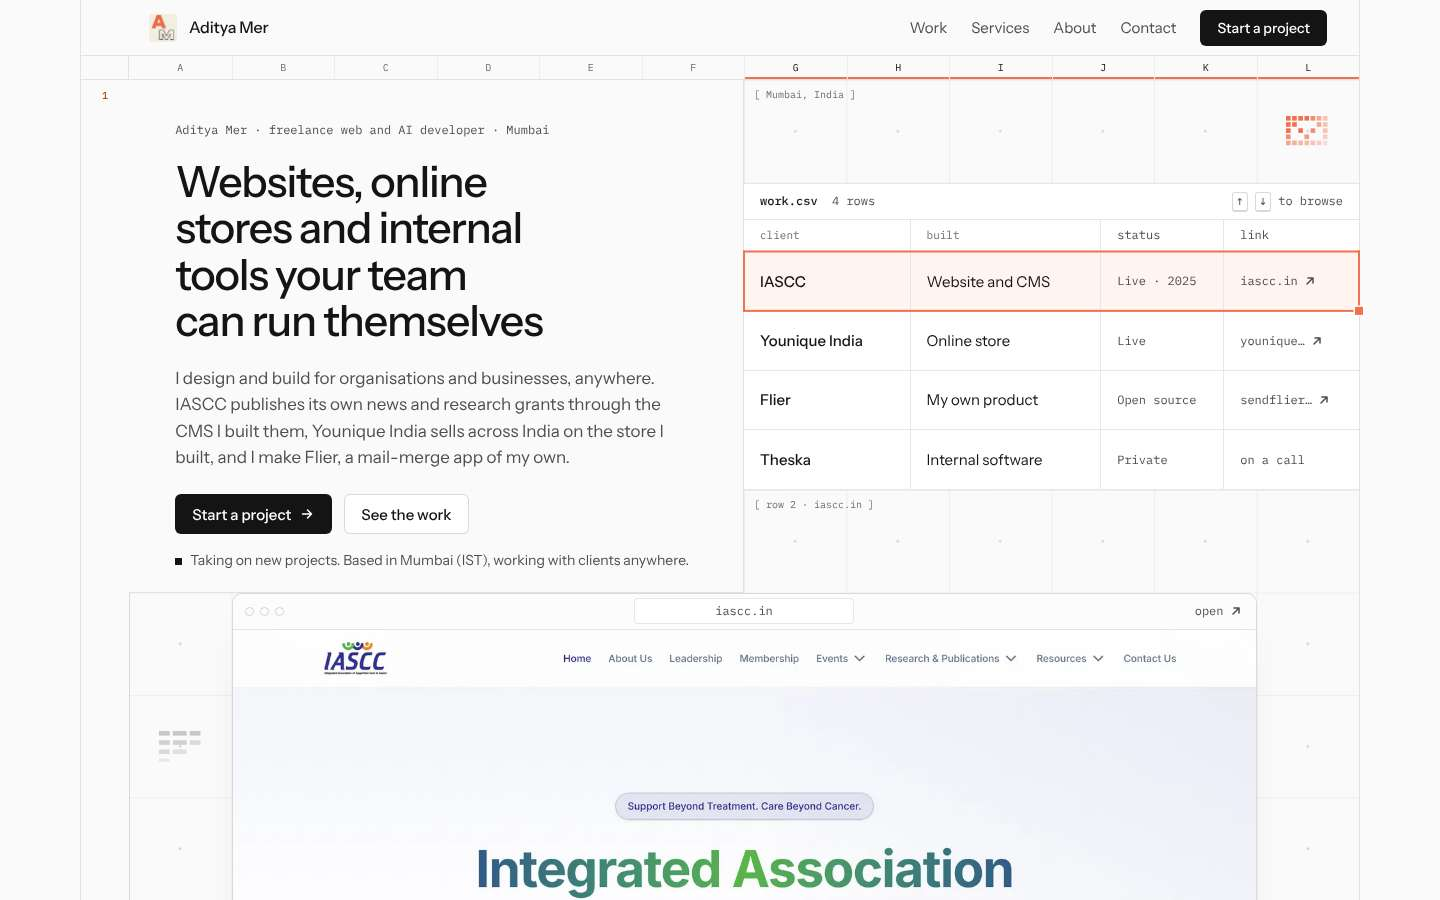
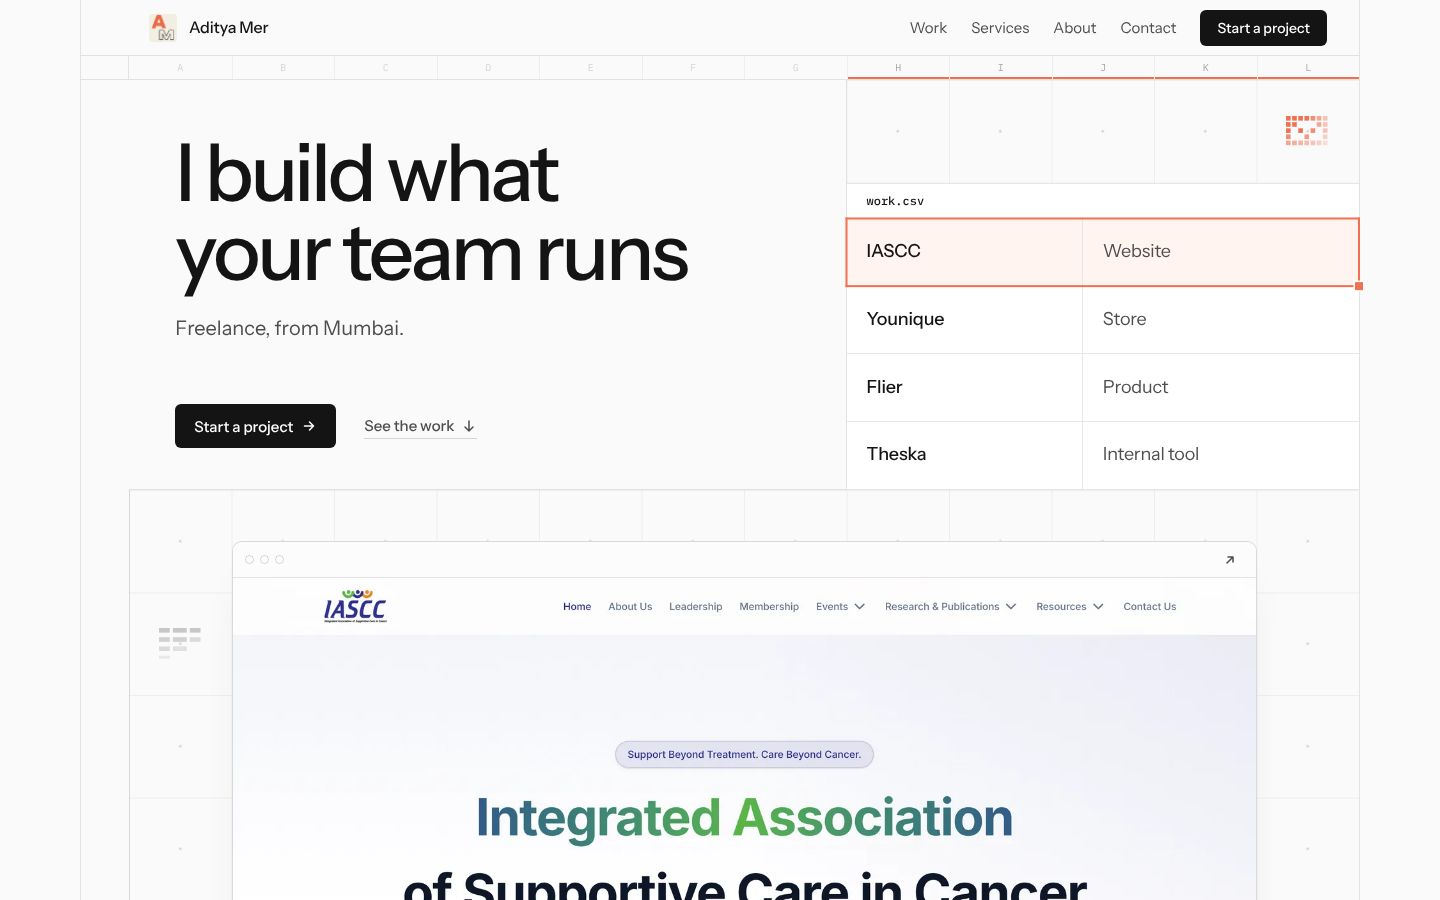
Mock D: hero v2 (25 words, screenshot-led)
Claude-Session: https://claude.ai/code/session_01WUuDZFGfVJ36FVGzzxM2e9

diff --git a/mocks/d-ledger/index.html b/mocks/d-ledger/index.html
@@ -96,22 +96,25 @@ svg.i{width:16px;height:16px;flex:none;fill:none;stroke:currentColor;stroke-widt
 .hgrid{position:relative;display:grid;grid-template-columns:repeat(12,minmax(0,1fr));grid-template-rows:repeat(9,calc(100cqw / 12));height:calc(100cqw / 12 * 9);overflow:hidden;
   background-image:radial-gradient(circle,rgba(20,20,20,.16) 0 1px,transparent 1.5px),linear-gradient(to bottom,var(--grid) 1px,transparent 1px);
   background-size:calc(100cqw / 12) calc(100cqw / 12);}
-.htext{grid-column:1/span 6;grid-row:1/span 5;background:var(--bg);border-right:1px solid var(--line);border-bottom:1px solid var(--line);padding:calc(100cqw / 12 * .4) calc(100cqw / 12 * .45) calc(100cqw / 12 * .36);display:flex;flex-direction:column;z-index:2}
-.htext .kick{color:var(--ink2)}
-.htext h1{font:500 calc(100cqw / 12 * .42)/1.08 var(--sans);letter-spacing:-.028em;margin-top:20px;max-width:15ch;text-wrap:balance}
-.htext .lede{font-size:17px;line-height:1.55;color:var(--ink2);margin-top:20px;max-width:50ch}
-.htext .acts{display:flex;gap:12px;margin-top:auto;padding-top:24px;flex-wrap:wrap}
-.htext .avail{margin-top:16px;display:flex;align-items:center;gap:8px;color:var(--ink2);font-size:14px}
+.htext{grid-column:1/span 7;grid-row:1/span 4;background:var(--bg);border-right:1px solid var(--line);border-bottom:1px solid var(--line);padding:calc(100cqw / 12 * .52) calc(100cqw / 12 * .45) calc(100cqw / 12 * .4);display:flex;flex-direction:column;z-index:2}
+.htext h1{font:500 calc(100cqw / 12 * .78)/.98 var(--sans);letter-spacing:-.04em;max-width:11ch;text-wrap:balance}
+.htext .lede{font-size:20px;line-height:1.4;color:var(--ink2);margin-top:24px}
+.htext .acts{display:flex;align-items:center;gap:28px;margin-top:auto;padding-top:24px;flex-wrap:wrap}
+.htext .acts .btn{height:44px;padding:0 18px}
+.lnk{display:inline-flex;align-items:center;gap:6px;font:500 15px/1 var(--sans);text-decoration:none;color:var(--ink2);border-bottom:1px solid var(--line2);padding:4px 0}
+.lnk:hover{color:var(--ink);border-color:var(--ink)}
 .sq{width:7px;height:7px;background:var(--ink);flex:none}
+/* the hero row number and the column letters go quiet while the hero is in view */
+.hero::before{visibility:hidden}
+html.at-hero .letters span{color:rgba(20,20,20,.16)}
+html.at-hero .letters span.on{color:rgba(20,20,20,.38)}
 
-.tpanel{grid-column:7/span 6;grid-row:2/span 3;background:var(--surface);border-top:1px solid var(--line);border-bottom:1px solid var(--line);z-index:2;display:flex;flex-direction:column}
-.tcap{display:flex;align-items:center;justify-content:space-between;height:36px;padding:0 16px;border-bottom:1px solid var(--line);color:var(--ink2)}
+.tpanel{grid-column:8/span 5;grid-row:2/span 3;background:var(--surface);border-top:1px solid var(--line);border-bottom:1px solid var(--line);z-index:2;display:flex;flex-direction:column}
+.tcap{display:flex;align-items:center;height:36px;padding:0 20px;border-bottom:1px solid var(--line);color:var(--ink2)}
 .tcap b{font-weight:500;color:var(--ink)}
-kbd{font:500 10px/1 var(--mono);border:1px solid var(--line2);border-bottom-width:2px;border-radius:3px;padding:2px 4px;color:var(--ink2);background:var(--surface)}
 table.wt{width:100%;border-collapse:collapse;table-layout:fixed}
-.wt th{font:400 11px/1 var(--mono);text-align:left;color:var(--ink3);height:32px;padding:0 16px;border-bottom:1px solid var(--line)}
-.wt th + th,.wt td + td{border-left:1px solid var(--line)}
-.wt td{height:calc((100cqw / 12 * 3 - 70px) / 4);padding:0 16px;border-bottom:1px solid var(--line);font-size:15px;white-space:nowrap;overflow:hidden;text-overflow:ellipsis}
+.wt td + td{border-left:1px solid var(--line)}
+.wt td{height:calc((100cqw / 12 * 3 - 37px) / 4);padding:0 20px;border-bottom:1px solid var(--line);font-size:18px;letter-spacing:-.01em;white-space:nowrap;overflow:hidden;text-overflow:ellipsis}
 .wt tr:last-child td{border-bottom:0}
 .wt tbody tr{cursor:pointer;transition:background-color .2s}
 .wt tbody tr:hover{background:#F6F6F5}
@@ -119,24 +122,22 @@ table.wt{width:100%;border-collapse:collapse;table-layout:fixed}
 .wt tbody tr:focus{outline:none}
 .wt tbody tr:focus-visible td:first-child{box-shadow:inset 2px 0 0 var(--ink)}
 .wt .cl{font-weight:500}
-.wt .st,.wt .ln{font:400 12px/1 var(--mono);color:var(--ink2)}
-.wt .ln a{text-decoration:none;display:inline-flex;align-items:center;gap:4px}
-.wt .ln a:hover{color:var(--ink);text-decoration:underline}
-.wt col.c1{width:27%}.wt col.c2{width:31%}.wt col.c3{width:20%}.wt col.c4{width:22%}
+.wt td:last-child{color:var(--ink2)}
+.wt col.c1{width:46%}
 
-.win{grid-column:2/span 10;grid-row:6/span 7;align-self:start;z-index:3;background:var(--surface);border:1px solid var(--line2);border-radius:10px 10px 0 0;overflow:hidden;box-shadow:0 1px 0 rgba(20,20,20,.03),0 24px 48px -24px rgba(20,20,20,.12)}
-.wbar{display:grid;grid-template-columns:1fr auto 1fr;align-items:center;height:36px;padding:0 12px;border-bottom:1px solid var(--line);background:#FCFCFC}
+.win{grid-column:2/span 10;grid-row:5/span 8;align-self:start;margin-top:calc(100cqw / 12 * .5);z-index:3;background:var(--surface);border:1px solid var(--line2);border-radius:10px 10px 0 0;overflow:hidden;box-shadow:0 1px 0 rgba(20,20,20,.03),0 24px 48px -24px rgba(20,20,20,.12)}
+.wbar{display:flex;align-items:center;justify-content:space-between;height:36px;padding:0 12px;border-bottom:1px solid var(--line);background:#FCFCFC}
 .wbar .dots{display:flex;gap:6px}
 .wbar .dots i{width:9px;height:9px;border-radius:50%;border:1px solid var(--line2)}
-.wbar .url{font:400 12px/1 var(--mono);color:var(--ink2);padding:6px 12px;border:1px solid var(--line);border-radius:4px;background:var(--surface);min-width:220px;text-align:center}
-.wbar .open{justify-self:end;font:400 12px/1 var(--mono);color:var(--ink2);text-decoration:none;display:inline-flex;gap:4px;align-items:center}
-.wbar .open:hover{color:var(--ink)}
+.wbar .open{display:grid;place-items:center;width:28px;height:28px;border-radius:4px;color:var(--ink2)}
+.wbar .open:hover{color:var(--ink);background:var(--bg)}
 .panes{position:relative;aspect-ratio:16/10;background:var(--surface)}
 .pane{position:absolute;inset:0;opacity:0;transform:translateY(16px);transition:opacity .35s var(--ease),transform .5s var(--ease);visibility:hidden}
 .pane.on{opacity:1;transform:none;visibility:visible}
 .pane img{width:100%;height:100%;object-fit:cover;object-position:top}
 .priv{display:grid;place-items:center;height:100%;background:
   linear-gradient(to right,var(--grid) 1px,transparent 1px),linear-gradient(to bottom,var(--grid) 1px,transparent 1px),#FCFCFC;background-size:12.5% 40px,12.5% 40px}
+.win .priv{align-content:start;padding-top:9%}
 .priv-in{width:min(560px,86%);background:var(--surface);border:1px solid var(--line2);border-radius:6px}
 .priv-row{display:grid;grid-template-columns:1.2fr 2fr 1fr;border-bottom:1px solid var(--line);height:40px;align-items:center}
 .priv-row:last-child{border-bottom:0}
@@ -144,32 +145,26 @@ table.wt{width:100%;border-collapse:collapse;table-layout:fixed}
 .priv-row span + span{border-left:1px solid var(--line)}
 .priv-row i{display:block;height:8px;border-radius:2px;background:rgba(20,20,20,.09);width:100%}
 .priv-head{display:flex;align-items:center;gap:8px;padding:12px 14px;border-bottom:1px solid var(--line);font-size:14px;color:var(--ink2)}
-.lab{font:400 10px/1 var(--mono);color:var(--ink3);padding:10px;white-space:nowrap;z-index:1}
 .px{display:grid;place-items:center;z-index:1}
 .px svg{width:42%;height:auto}
 
 @media (max-width:1099px){
   .hgrid{display:flex;flex-direction:column;gap:calc(100cqw / var(--cols) * .5);height:auto;overflow:visible;padding:0 0 calc(100cqw / var(--cols) * .5);background-size:calc(100cqw / var(--cols)) calc(100cqw / var(--cols))}
-  .hgrid>.lab,.hgrid>.px{display:none}
+  .hgrid>.px{display:none}
   .htext{border-right:0;padding:40px var(--pad) 32px}
-  .htext h1{font-size:clamp(34px,7.4cqw,52px);max-width:18ch}
-  .htext .lede{font-size:16px}
+  .htext h1{font-size:clamp(40px,9.6cqw,64px)}
+  .htext .lede{font-size:17px;margin-top:16px}
+  .htext .acts{margin-top:0;padding-top:28px}
   .tpanel{margin:0 var(--pad);border:1px solid var(--line)}
-  .wt td{height:48px}
+  .wt td{height:52px}
   .win{margin:0 var(--pad);border-radius:8px;align-self:stretch}
 }
 @media (max-width:639px){
-  .htext{padding:32px var(--pad) 28px}
-  .htext .acts .btn{flex:1;justify-content:center}
+  .htext{padding:28px var(--pad) 28px}
+  .htext .acts{gap:20px}
   .tpanel,.win{margin:0 12px}
-  .wt th,.wt td{padding:0 10px}
-  .wt td{font-size:14px}
-  .wt col.c1{width:38%}.wt col.c2{width:62%}.wt col.c3,.wt col.c4{width:0}
-  .wt .st,.wt .ln,.wt th.st,.wt th.ln{display:none}
-  .wbar{grid-template-columns:auto 1fr;gap:12px}
-  .wbar .url{min-width:0;text-align:left;overflow:hidden;text-overflow:ellipsis;white-space:nowrap}
-  .wbar .open{display:none}
-  .tcap .hint{display:none}
+  .wt td{padding:0 14px;font-size:16px;height:46px}
+  .tcap{padding:0 14px}
 }
 
 /* hero window rises out of the hero ledge as you scroll (scroll-driven, transform only) */
@@ -392,38 +387,32 @@ form.fm{display:grid;grid-template-columns:1fr 1fr}
   <section class="r hero" data-scope="hero" aria-labelledby="h1">
     <div class="hgrid">
       <div class="htext">
-        <p class="kick mono">Aditya Mer · freelance web and AI developer · Mumbai</p>
-        <h1 id="h1">Websites, online stores and internal tools your team can run themselves</h1>
-        <p class="lede">I design and build for organisations and businesses, anywhere. IASCC publishes its own news and research grants through the CMS I built them, Younique India sells across India on the store I built, and I make Flier, a mail-merge app of my own.</p>
+        <h1 id="h1">I build what your team runs</h1>
+        <p class="lede">Freelance, from Mumbai.</p>
         <div class="acts">
           <a class="btn btn-p" href="#contact">Start a project <svg class="i" viewBox="0 0 16 16"><path d="M3.5 8h9M8.5 4l4 4-4 4"/></svg></a>
-          <a class="btn btn-s" href="#work">See the work</a>
+          <a class="lnk" href="#work">See the work <svg class="i" viewBox="0 0 16 16"><path d="M8 3v10M4 9l4 4 4-4"/></svg></a>
         </div>
-        <p class="avail"><span class="sq" aria-hidden="true"></span>Taking on new projects. Based in Mumbai (IST), working with clients anywhere.</p>
       </div>
 
       <div class="tpanel">
-        <div class="tcap mono"><span><b>work.csv</b> &nbsp;4 rows</span><span class="hint"><kbd>↑</kbd> <kbd>↓</kbd> to browse</span></div>
-        <table class="wt" id="wt" role="grid" aria-label="work.csv, projects I have shipped. Use the arrow keys to preview each one." aria-describedby="wlive">
-          <colgroup><col class="c1"><col class="c2"><col class="c3"><col class="c4"></colgroup>
-          <thead><tr><th scope="col">client</th><th scope="col">built</th><th scope="col" class="st">status</th><th scope="col" class="ln">link</th></tr></thead>
+        <div class="tcap mono"><b>work.csv</b></div>
+        <table class="wt" id="wt" role="grid" aria-label="work.csv: client and what I built. Use the arrow keys to preview each project." aria-describedby="wlive">
+          <colgroup><col class="c1"><col></colgroup>
           <tbody>
-            <tr tabindex="0" aria-selected="true" data-url="iascc.in" data-href="https://iascc.in"><td class="cl">IASCC</td><td>Website and CMS</td><td class="st">Live · 2025</td><td class="ln"><a href="https://iascc.in" tabindex="-1" target="_blank" rel="noopener">iascc.in <svg class="i" viewBox="0 0 16 16"><path d="M5 11 11 5M6 5h5v5"/></svg></a></td></tr>
-            <tr tabindex="-1" aria-selected="false" data-url="youniqueindia.co.in" data-href="https://www.youniqueindia.co.in"><td class="cl">Younique India</td><td>Online store</td><td class="st">Live</td><td class="ln"><a href="https://www.youniqueindia.co.in" tabindex="-1" target="_blank" rel="noopener">younique… <svg class="i" viewBox="0 0 16 16"><path d="M5 11 11 5M6 5h5v5"/></svg></a></td></tr>
-            <tr tabindex="-1" aria-selected="false" data-url="sendflier.tech" data-href="https://sendflier.tech"><td class="cl">Flier</td><td>My own product</td><td class="st">Open source</td><td class="ln"><a href="https://sendflier.tech" tabindex="-1" target="_blank" rel="noopener">sendflier… <svg class="i" viewBox="0 0 16 16"><path d="M5 11 11 5M6 5h5v5"/></svg></a></td></tr>
-            <tr tabindex="-1" aria-selected="false" data-url="theska · private" data-href=""><td class="cl">Theska</td><td>Internal software</td><td class="st">Private</td><td class="ln">on a call</td></tr>
+            <tr tabindex="0" aria-selected="true" data-url="iascc.in" data-href="https://iascc.in"><td class="cl">IASCC</td><td>Website</td></tr>
+            <tr tabindex="-1" aria-selected="false" data-url="youniqueindia.co.in" data-href="https://www.youniqueindia.co.in"><td class="cl" title="Younique India">Younique</td><td>Store</td></tr>
+            <tr tabindex="-1" aria-selected="false" data-url="sendflier.tech" data-href="https://sendflier.tech"><td class="cl">Flier</td><td>Product</td></tr>
+            <tr tabindex="-1" aria-selected="false" data-url="theska · private" data-href=""><td class="cl">Theska</td><td>Internal tool</td></tr>
           </tbody>
         </table>
       </div>
 
-      <span class="lab" style="grid-column:7/span 3;grid-row:1">[ Mumbai, India ]</span>
-      <span class="lab" id="rowlab" style="grid-column:7/span 4;grid-row:5" aria-hidden="true">[ row 2 · iascc.in ]</span>
-      <span class="lab" style="grid-column:12;grid-row:9;align-self:end">[ UTC+5:30 ]</span>
       <span class="px" style="grid-column:12;grid-row:1" aria-hidden="true"><svg viewBox="0 0 28 20"><g fill="#F07050"><rect x="0" y="0" width="3" height="3"/><rect x="4" y="0" width="3" height="3"/><rect x="8" y="0" width="3" height="3"/><rect x="12" y="0" width="3" height="3"/><rect x="16" y="0" width="3" height="3" opacity=".8"/><rect x="20" y="0" width="3" height="3" opacity=".6"/><rect x="24" y="0" width="3" height="3" opacity=".4"/><rect x="0" y="4" width="3" height="3"/><rect x="4" y="4" width="3" height="3"/><rect x="20" y="4" width="3" height="3" opacity=".6"/><rect x="24" y="4" width="3" height="3" opacity=".4"/><rect x="0" y="8" width="3" height="3"/><rect x="8" y="8" width="3" height="3"/><rect x="16" y="8" width="3" height="3" opacity=".8"/><rect x="24" y="8" width="3" height="3" opacity=".4"/><rect x="0" y="12" width="3" height="3" opacity=".8"/><rect x="12" y="12" width="3" height="3" opacity=".7"/><rect x="24" y="12" width="3" height="3" opacity=".3"/><rect x="0" y="16" width="3" height="3" opacity=".6"/><rect x="4" y="16" width="3" height="3" opacity=".55"/><rect x="8" y="16" width="3" height="3" opacity=".5"/><rect x="12" y="16" width="3" height="3" opacity=".45"/><rect x="16" y="16" width="3" height="3" opacity=".4"/><rect x="20" y="16" width="3" height="3" opacity=".3"/><rect x="24" y="16" width="3" height="3" opacity=".2"/></g></svg></span>
-      <span class="px" style="grid-column:1;grid-row:7" aria-hidden="true"><svg viewBox="0 0 28 20"><g fill="#141414" opacity=".22"><rect x="0" y="0" width="7" height="3"/><rect x="9" y="0" width="9" height="3"/><rect x="20" y="0" width="7" height="3"/><rect x="0" y="6" width="7" height="3" opacity=".8"/><rect x="9" y="6" width="9" height="3" opacity=".8"/><rect x="20" y="6" width="7" height="3" opacity=".6"/><rect x="0" y="12" width="7" height="3" opacity=".6"/><rect x="9" y="12" width="9" height="3" opacity=".5"/><rect x="0" y="18" width="7" height="2" opacity=".35"/></g></svg></span>
+      <span class="px" style="grid-column:1;grid-row:6" aria-hidden="true"><svg viewBox="0 0 28 20"><g fill="#141414" opacity=".22"><rect x="0" y="0" width="7" height="3"/><rect x="9" y="0" width="9" height="3"/><rect x="20" y="0" width="7" height="3"/><rect x="0" y="6" width="7" height="3" opacity=".8"/><rect x="9" y="6" width="9" height="3" opacity=".8"/><rect x="20" y="6" width="7" height="3" opacity=".6"/><rect x="0" y="12" width="7" height="3" opacity=".6"/><rect x="9" y="12" width="9" height="3" opacity=".5"/><rect x="0" y="18" width="7" height="2" opacity=".35"/></g></svg></span>
 
       <figure class="win" aria-label="Preview of the selected project">
-        <div class="wbar"><span class="dots" aria-hidden="true"><i></i><i></i><i></i></span><span class="url" id="wurl">iascc.in</span><a class="open" id="wopen" href="https://iascc.in" target="_blank" rel="noopener">open <svg class="i" viewBox="0 0 16 16"><path d="M5 11 11 5M6 5h5v5"/></svg></a></div>
+        <div class="wbar"><span class="dots" aria-hidden="true"><i></i><i></i><i></i></span><a class="open" id="wopen" href="https://iascc.in" target="_blank" rel="noopener" aria-label="Open iascc.in"><svg class="i" viewBox="0 0 16 16"><path d="M5 11 11 5M6 5h5v5"/></svg></a></div>
         <div class="panes">
           <div class="pane on"><img src="../assets/iascc.webp" width="1600" height="1000" alt="IASCC home page: Integrated Association of Supportive Care in Cancer"></div>
           <div class="pane"><img src="../assets/younique.webp" width="1600" height="1000" alt="Younique India online store home page" loading="lazy"></div>
@@ -445,7 +434,7 @@ form.fm{display:grid;grid-template-columns:1fr 1fr}
 
   <!-- work -->
   <section id="work" aria-labelledby="work-h">
-    <div class="r sh fill"><div class="c t"><h2 id="work-h"><span class="dot">.</span>work</h2></div><div class="c d"><p>Three client projects and one product of my own. The screenshots are the live sites.</p></div></div>
+    <div class="r sh fill"><div class="c t"><h2 id="work-h"><span class="dot">.</span>work</h2></div><div class="c d"><p>Websites, online stores and internal tools: three client projects and Flier, a product of my own. The screenshots are the live sites.</p></div></div>
 
     <article class="r case fill" data-scope>
       <div class="c img"><a class="shot" href="https://iascc.in" target="_blank" rel="noopener" aria-label="Visit iascc.in"><img src="../assets/iascc.webp" width="1600" height="1000" alt="IASCC website home page" loading="lazy"></a></div>
@@ -641,7 +630,7 @@ form.fm{display:grid;grid-template-columns:1fr 1fr}
         <h2 id="ct-h" style="margin-top:16px">Let's work together</h2>
         <p>Tell me what you need and who it's for. I reply with a few questions, then we set up a short call. No cost and no obligation.</p>
         <div class="mailcell" data-sel><a href="mailto:adityamer.work@gmail.com">adityamer.work@gmail.com</a><button class="copy" type="button" id="copy" data-v="adityamer.work@gmail.com"><svg class="i" viewBox="0 0 16 16"><rect x="5.5" y="5.5" width="8" height="8" rx="1"/><path d="M10.5 5.5v-2a1 1 0 0 0-1-1h-6a1 1 0 0 0-1 1v6a1 1 0 0 0 1 1h2"/></svg><span>Copy</span></button></div>
-        <p class="avail"><span class="sq" aria-hidden="true"></span>Taking on new projects · Mumbai, India · clients anywhere</p>
+        <p class="avail"><span class="sq" aria-hidden="true"></span>Taking on new projects · Mumbai, India (UTC+5:30) · clients anywhere</p>
         <p class="sr" id="copied" aria-live="polite"></p>
         <div class="else"><a href="https://github.com/aditya190803" target="_blank" rel="noopener">GitHub ↗</a><a href="https://www.linkedin.com/in/adityamer/" target="_blank" rel="noopener">LinkedIn ↗</a><a href="/Aditya_Mer_Resume.pdf">Résumé (PDF)</a></div>
       </div>
@@ -697,8 +686,7 @@ form.fm{display:grid;grid-template-columns:1fr 1fr}
 
   /* ---- hero work.csv rows ---- */
   var wt=d.getElementById('wt'), rows=[].slice.call(wt.tBodies[0].rows);
-  var panes=d.querySelectorAll('.pane'), wurl=d.getElementById('wurl'), wopen=d.getElementById('wopen');
-  var rowlab=d.getElementById('rowlab'), wlive=d.getElementById('wlive');
+  var panes=d.querySelectorAll('.pane'), wopen=d.getElementById('wopen'), wlive=d.getElementById('wlive');
   var names=['IASCC','Younique India','Flier','Theska'];
   function pick(list, i, focus){
     list.forEach(function(r,j){ r.setAttribute('aria-selected', j===i); r.tabIndex = j===i ? 0 : -1; });
@@ -708,9 +696,7 @@ form.fm{display:grid;grid-template-columns:1fr 1fr}
     pick(rows, i, focus);
     for(var j=0;j<panes.length;j++) panes[j].classList.toggle('on', j===i);
     var r=rows[i];
-    wurl.textContent=r.dataset.url;
-    if(r.dataset.href){ wopen.href=r.dataset.href; wopen.style.visibility=''; } else wopen.style.visibility='hidden';
-    rowlab.textContent='[ row '+(i+2)+' · '+r.dataset.url+' ]';
+    if(r.dataset.href){ wopen.href=r.dataset.href; wopen.setAttribute('aria-label','Open '+r.dataset.url); wopen.style.visibility=''; } else wopen.style.visibility='hidden';
     wlive.textContent='Showing '+names[i]+(r.dataset.href?', '+r.dataset.url:', private project');
     if(curScope && curScope.dataset.scope==='hero') place(r);
   }
@@ -728,6 +714,7 @@ form.fm{display:grid;grid-template-columns:1fr 1fr}
       });
     });
   }
+  if(matchMedia('(hover: hover) and (pointer: fine)').matches) rows.forEach(function(r,i){ r.addEventListener('mouseenter', function(){ if(r.getAttribute('aria-selected')!=='true') selectWork(i, false); }); });
   grid(rows, selectWork, function(i){ var h=rows[i].dataset.href; if(h) window.open(h,'_blank','noopener'); else location.hash='#contact'; });
 
   /* ---- Flier merge demo ---- */
@@ -742,7 +729,7 @@ form.fm{display:grid;grid-template-columns:1fr 1fr}
 
   /* ---- the outline follows whichever scope crosses the reading line ---- */
   var scopes=d.querySelectorAll('[data-scope]');
-  function setScope(s, snap){ curScope=s; place(targetOf(s), snap); }
+  function setScope(s, snap){ curScope=s; d.documentElement.classList.toggle('at-hero', s.dataset.scope==='hero'); place(targetOf(s), snap); }
   if('IntersectionObserver' in window){
     var io=new IntersectionObserver(function(es){
       es.forEach(function(e){ if(e.isIntersecting && e.target!==curScope) setScope(e.target); });

diff --git a/mocks/d-ledger/NOTES.md b/mocks/d-ledger/NOTES.md
@@ -61,3 +61,10 @@ Everything in PLAN.md's information architecture is on the page:
 
 ## Template check
 Swap in another freelancer's name and the page no longer fits. The hero is his actual `work.csv` (IASCC, Younique India, Flier, Theska), and the grid comes from his own product. The outlined cells are his specific facts: the CMS clients run, Tata Memorial Hospital, FastWrite's downloads and the fixed quote.
+
+## Hero v2 (revision 2 rules)
+- **Composition:** H1 `I build what your team runs` set large (about 80px at 1440) across columns A–G, the sub-line `Freelance, from Mumbai.`, then `Start a project` plus a quiet `See the work ↓` text link. On the right, `work.csv` is cut to 2 columns (client, built) and 4 rows with no header row or toolbar hints; the selected-cell outline sits on the active row. Below both, the selected row's live screenshot rises from the bottom edge across 10 columns and is the main visual.
+- **Explore:** hovering a row (fine pointers), clicking it or using ↑ ↓ Home End swaps the screenshot. The window still lifts about 1.6 cells on scroll. Theska's private pane now sits near the top of the window so it is visible on the first screen.
+- **Quiet rulers:** the hero's row number is hidden, and the A–L letters fade to 16% ink while the hero is the active scope (`html.at-hero`).
+- **Removed or moved:** the kicker line, the long paragraph, the availability sentence, the status and link columns, the `↑ ↓ to browse` hint, the `[ Mumbai, India ]`, `[ row 2 · … ]` and `[ UTC+5:30 ]` labels, and the URL text in the window bar (now an icon link with an aria-label). The services phrase moved into the `.work` intro, and UTC+5:30 moved into the contact availability line. The client facts were already in the case studies.
+- **Measured:** 25 words and 13 text blocks on the first screen (it was 127 and 34). Overflow at 390: 0 px. CLS: 0.0000 at 1440 and at 390. With reduced motion, 0 of 152 cells are hidden and the window does not animate. Keyboard row navigation, the live region and the open link all still work.
